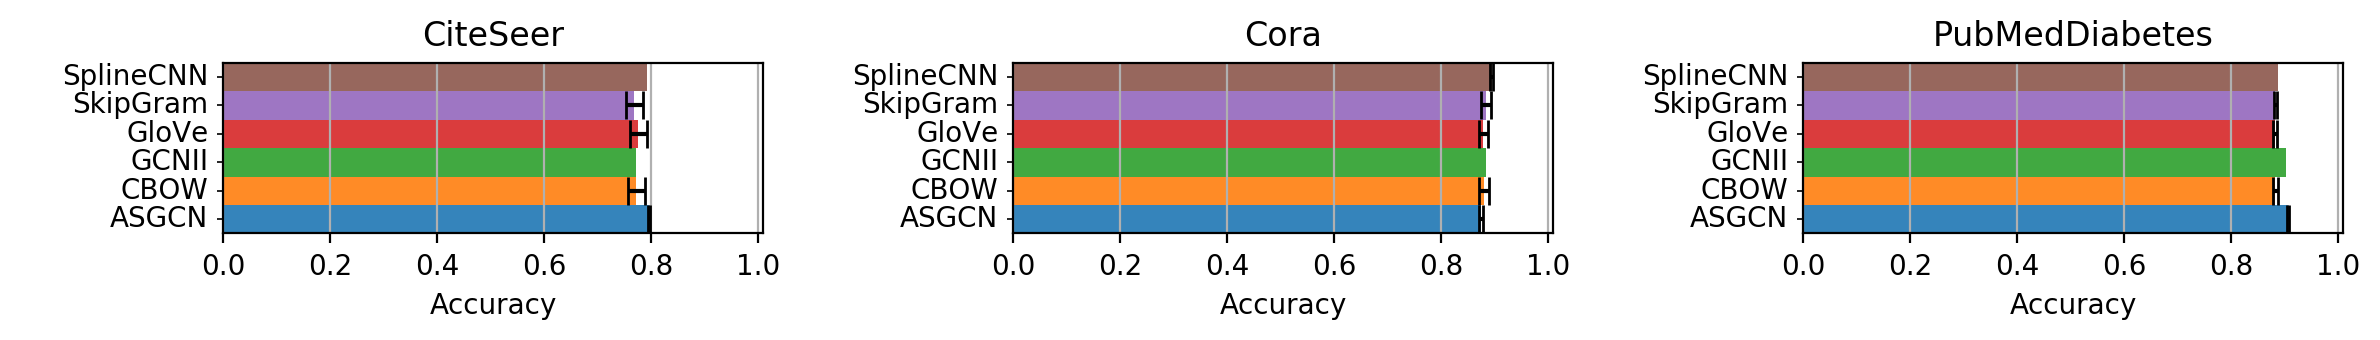
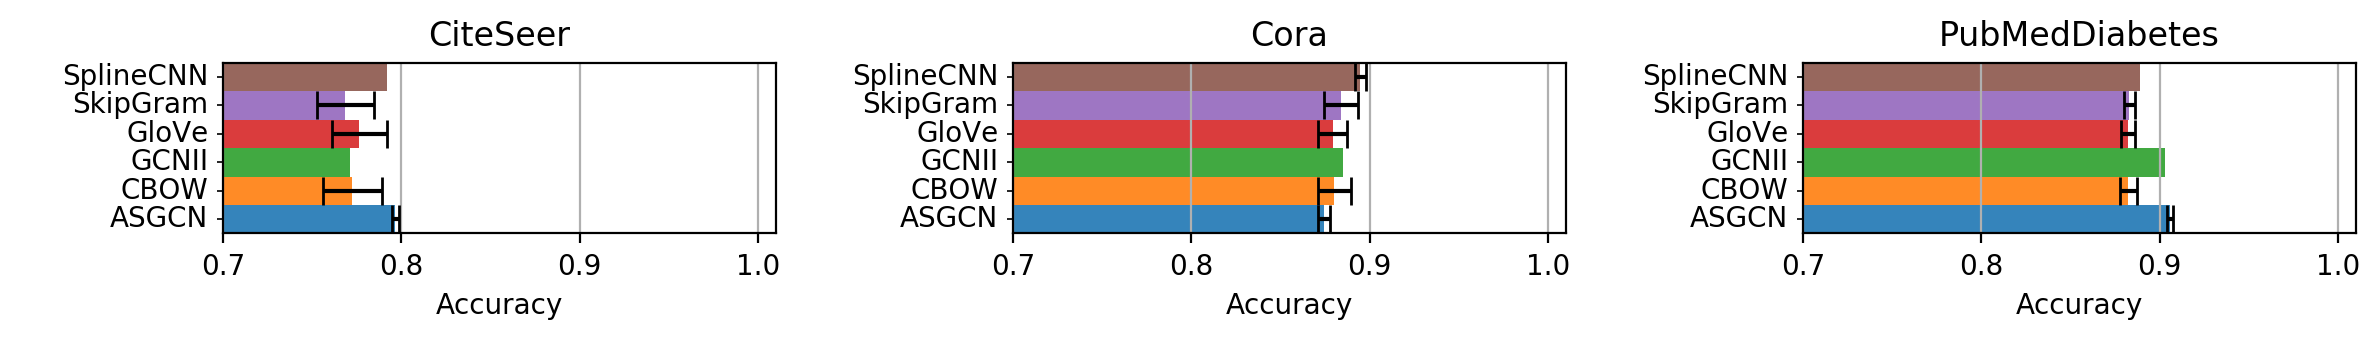
Updated main experiment loop

diff --git a/node_label_predictions/experiment/run.py b/node_label_predictions/experiment/run.py
@@ -84,9 +84,6 @@ def evaluate_nolan_performance(
 
 def run_node_label_prediction():
     """Run the node-label prediction."""
-    node_embedding_configuration = compress_json.local_load(
-        "node_embedding_configuration.json"
-    )
     nolan_configuration = compress_json.local_load(
         "nolan_configuration.json"
     )
@@ -101,25 +98,20 @@ def run_node_label_prediction():
             desc="Node embedding methods for graph {}".format(graph_name),
             leave=False
         ):
-            configuration = node_embedding_configuration[graph_name].copy()
-            if node_embedding_method_name == "GloVe":
-                for key in ("negative_samples", "batch_size"):
-                    if key in configuration:
-                        del configuration[key]
+            node_embedding, _ = compute_node_embedding(
+                graph,
+                node_embedding_method_name=node_embedding_method_name,
+                verbose=False,
+                automatically_drop_unsupported_parameters=True,
+                explore_weight=2,
+                return_weight=0.5,
+                negative_samples=100
+            )
 
             for holdout_number, (train, validation) in holdouts_generator(
                 graph.node_label_holdout,
                 holdouts_number=100
             ):
-                node_embedding, _ = compute_node_embedding(
-                    graph,
-                    node_embedding_method_name=node_embedding_method_name,
-                    fit_kwargs=dict(
-                        verbose=False
-                    ),
-                    random_state=holdout_number,
-                    **configuration
-                )
                 _, performance = evaluate_nolan_performance(
                     train,
                     validation,

diff --git a/node_label_predictions/experiment/utils/load_graph.py b/node_label_predictions/experiment/utils/load_graph.py
@@ -17,9 +17,9 @@ def load_graph_and_features(graph_loader: Callable) -> Tuple[EnsmallenGraph, pd.
     ------------------------
     Tuple with loaded graph and its features.
     """
-    complete_graph = graph_loader(verbose=False)
+    complete_graph: EnsmallenGraph = graph_loader(verbose=False)
 
-    graph_without_words = complete_graph.remove(
+    graph_without_words: EnsmallenGraph = complete_graph.remove(
         deny_node_types_set=set(["Word", "Unknown"]),
         verbose=False
     ).remove(
